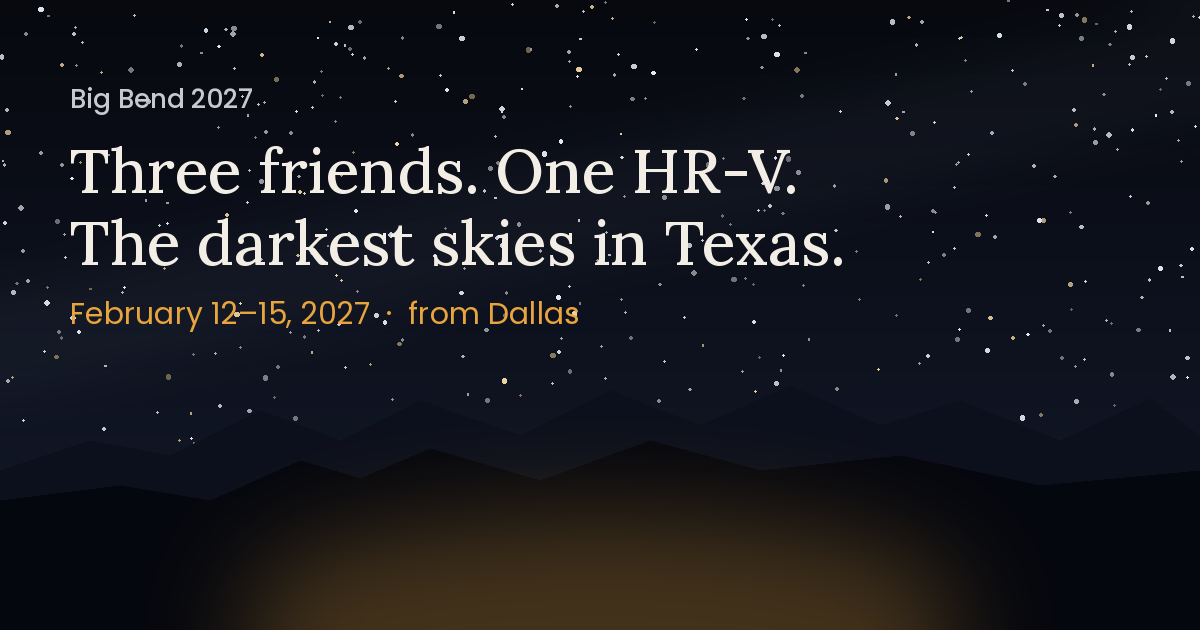
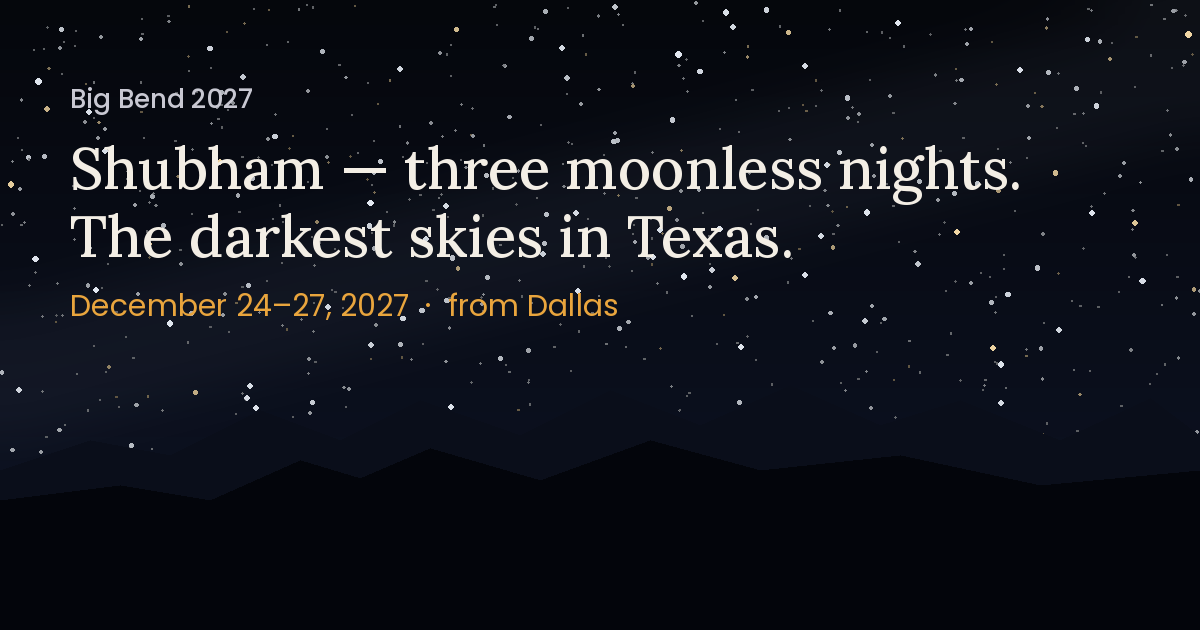
Personalize for Shubham / Khush; noindex; December preview images

diff --git a/index.html b/index.html
@@ -3,9 +3,10 @@
 <head>
 <meta charset="utf-8">
 <meta name="viewport" content="width=device-width, initial-scale=1, viewport-fit=cover">
-<title>Big Bend 2027 — J, three moonless nights</title>
+<title>Big Bend 2027 — Shubham, three moonless nights</title>
 <meta name="description" content="A four-day Big Bend camping and dark-sky road trip, December 24–27, 2027 — three moonless nights, one Honda HR-V from Dallas, and a budget that works from Arizona.">
 <meta name="color-scheme" content="dark">
+<meta name="robots" content="noindex, nofollow">
 <meta name="theme-color" content="#07090f">
 <meta property="og:type" content="website">
 <meta property="og:title" content="Big Bend 2027 — three friends, three moonless nights, the darkest skies in Texas">
@@ -73,7 +74,7 @@
   </div>
   <div class="wrap copy">
     <p class="kicker"><b>Big Bend National Park</b> Three friends, one HR-V, darkest skies in Texas</p>
-    <h1 id="h1">J, come stand under two thousand stars.</h1>
+    <h1 id="h1">Shubham, come stand under two thousand stars.</h1>
     <p class="date">December 24–27, 2027 — Christmas weekend, no moon</p>
     <p class="lede">Four days, three moonless nights, one Honda HR-V from Dallas. Everything shared is already covered. Your part pencils out to roughly $345–875 all-in at holiday fares, most likely around $550 — and it lands on the one week of the year nobody is hiring.</p>
     <div class="cta-row"><a class="cta" href="#budget">See what it actually costs</a><a class="cta ghost" href="#itinerary">Read the four days</a></div>
@@ -102,7 +103,7 @@
 <!-- 3. WHY THIS WEEKEND WINS -->
 <section id="why" aria-labelledby="h-why">
   <div class="wrap grid-2">
-    <div><h2 id="h-why" class="reveal">Why this weekend, specifically</h2><p class="lede">Two priorities, in order: the darkest sky, then a holiday Dallas and Edmonton actually share. Cost and the Arizona calendar were deliberately left out of the decision. The ranked reasons Dec 24–27 came out on top.</p></div>
+    <div><h2 id="h-why" class="reveal">Why this weekend, specifically</h2><p class="lede">Two priorities, in order: the darkest sky, then a holiday Dallas and Khush’s Edmonton calendar actually share. Cost and the Arizona calendar were deliberately left out of the decision. The ranked reasons Dec 24–27 came out on top.</p></div>
     <ol class="reasons">
       <li><span class="k">1</span><div><h3>A new moon on Dec 27</h3><p>The moon is a 10% waning crescent on Christmas Eve and effectively gone by the 26th, rising only in the last hour before dawn. Every evening is fully dark from about 7:20 pm to 6:15 am — eleven hours a night, thirty-three across the trip. No other candidate comes close except New Year’s 2028, which loses on holidays.</p></div></li>
       <li><span class="k">2</span><div><h3>Christmas on a Saturday</h3><p>Christmas Eve is a Dallas company holiday. Christmas Day falls on Saturday, so most employers on both sides of the border observe Monday Dec 27 — Alberta’s rules entitle you to a substitute day or pay, and U.S. companies commonly move the Saturday holiday too. That gives Dallas the Friday and, likely, the Monday.</p></div></li>
@@ -118,7 +119,7 @@
   <div class="wrap">
     <h2 id="h-rank" class="reveal">All ten weekends, ranked for the sky first</h2>
     <p class="lede">Tap any weekend for the sky, weather, holiday and moon details. Holiday scores count only dates shared by the Dallas company calendar and Alberta general holidays — the Arizona calendar isn’t a factor, by design. Ratings are planning judgments from historical data, not forecasts.</p>
-    <ol class="ledger"><li class="top"><details open><summary><span class="rank" aria-label="Rank 1">1</span><span><span class="dates">Dec 24–27, 2027</span><span class="tag">Christmas. Moonless nights, and the substitute Monday. Our pick.</span></span><svg class="chev" viewBox="0 0 24 24" fill="none" stroke="currentColor" stroke-width="2" aria-hidden="true"><path d="M6 9l6 6 6-6"/></svg></summary><div class="body"><p class="verdict-line">The darkest three nights of any candidate, with a shared holiday close behind.</p><div class="meters"><div class="meter" style="--w:100%"><span class="lab">Stargazing</span><span class="bar"><i></i></span><span class="val">5 of 5</span></div><div class="meter" style="--w:40%"><span class="lab">Aurora chance</span><span class="bar"><i></i></span><span class="val">2 of 5</span></div><div class="meter" style="--w:80%"><span class="lab">Camping weather</span><span class="bar"><i></i></span><span class="val">4 of 5</span></div><div class="meter" style="--w:80%"><span class="lab">Dallas–Edmonton holidays</span><span class="bar"><i></i></span><span class="val">4 of 5</span></div></div><p><b>Moon:</b> a waning crescent that shrinks from about 10% to 1% and doesn’t rise until 5–6 am — every evening is fully dark from 7:20 pm to 6:15 am, eleven hours a night. <b>Holidays:</b> Christmas Eve is a Dallas company holiday; Christmas falls on a Saturday, so Monday Dec 27 is the substitute day most employers observe on both sides of the border. <b>Vacation days:</b> Dallas 0–1 (the Monday if it isn’t substituted). For you: if you’re working by then, Dec 24 and Dec 27 are holidays at most U.S. employers — and the week between Christmas and New Year is the quietest hiring week of the year, so you miss nothing. <b>Weather:</b> low 60s by day, upper 30s at the Basin at night, dry.</p></div></details></li><li><details><summary><span class="rank" aria-label="Rank 2">2</span><span><span class="dates">Dec 31, 2027 – Jan 3, 2028</span><span class="tag">New Year’s. Nearly as dark; the holidays don’t line up.</span></span><svg class="chev" viewBox="0 0 24 24" fill="none" stroke="currentColor" stroke-width="2" aria-hidden="true"><path d="M6 9l6 6 6-6"/></svg></summary><div class="body"><p class="verdict-line">A young crescent that sets by 9–11 pm, then black sky — but Dallas has the Friday off and Edmonton the Monday, so each of us burns a day.</p><div class="meters"><div class="meter" style="--w:100%"><span class="lab">Stargazing</span><span class="bar"><i></i></span><span class="val">5 of 5</span></div><div class="meter" style="--w:40%"><span class="lab">Aurora chance</span><span class="bar"><i></i></span><span class="val">2 of 5</span></div><div class="meter" style="--w:80%"><span class="lab">Camping weather</span><span class="bar"><i></i></span><span class="val">4 of 5</span></div><div class="meter" style="--w:60%"><span class="lab">Dallas–Edmonton holidays</span><span class="bar"><i></i></span><span class="val">3 of 5</span></div></div><p>New Year’s Eve is a Dallas company holiday and a workday in Alberta; Jan 1 is a Saturday, so Alberta’s substitute is usually the Monday, which Dallas doesn’t get. Same sky quality as Christmas, worse alignment, and holiday fares.</p></div></details></li><li><details><summary><span class="rank" aria-label="Rank 3">3</span><span><span class="dates">Dec 31, 2026 – Jan 3, 2027</span><span class="tag">This New Year’s. Best holidays; a half moon; four months away.</span></span><svg class="chev" viewBox="0 0 24 24" fill="none" stroke="currentColor" stroke-width="2" aria-hidden="true"><path d="M6 9l6 6 6-6"/></svg></summary><div class="body"><p class="verdict-line">Jan 1 is a paid Friday for both Dallas and Edmonton — the cleanest overlap on the list — with a last-quarter moon that rises around midnight, so evenings are dark.</p><div class="meters"><div class="meter" style="--w:80%"><span class="lab">Stargazing</span><span class="bar"><i></i></span><span class="val">4 of 5</span></div><div class="meter" style="--w:40%"><span class="lab">Aurora chance</span><span class="bar"><i></i></span><span class="val">2 of 5</span></div><div class="meter" style="--w:80%"><span class="lab">Camping weather</span><span class="bar"><i></i></span><span class="val">4 of 5</span></div><div class="meter" style="--w:100%"><span class="lab">Dallas–Edmonton holidays</span><span class="bar"><i></i></span><span class="val">5 of 5</span></div></div><p>Loses on the sky (the moon is up from midnight to dawn at roughly 50%) and on logistics: campsites for this window opened in July, so the Basin is very likely gone. Rio Grande Village or a Terlingua campground would be the fallback.</p></div></details></li><li><details><summary><span class="rank" aria-label="Rank 4">4</span><span><span class="dates">Nov 25–28, 2027</span><span class="tag">Thanksgiving. New moon, best weather — U.S.-only holiday.</span></span><svg class="chev" viewBox="0 0 24 24" fill="none" stroke="currentColor" stroke-width="2" aria-hidden="true"><path d="M6 9l6 6 6-6"/></svg></summary><div class="body"><p class="verdict-line">New moon on Nov 27 and 69°F days: the best conditions in the park all year.</p><div class="meters"><div class="meter" style="--w:100%"><span class="lab">Stargazing</span><span class="bar"><i></i></span><span class="val">5 of 5</span></div><div class="meter" style="--w:40%"><span class="lab">Aurora chance</span><span class="bar"><i></i></span><span class="val">2 of 5</span></div><div class="meter" style="--w:100%"><span class="lab">Camping weather</span><span class="bar"><i></i></span><span class="val">5 of 5</span></div><div class="meter" style="--w:20%"><span class="lab">Dallas–Edmonton holidays</span><span class="bar"><i></i></span><span class="val">1 of 5</span></div></div><p>Canada’s Thanksgiving is in October, so Edmonton has no holiday here at all. Ranked fourth purely because the second priority is a shared Dallas–Edmonton holiday.</p></div></details></li><li><details><summary><span class="rank" aria-label="Rank 5">5</span><span><span class="dates">Feb 12–15, 2027</span><span class="tag">Presidents’ Day + Family Day. The practical pick, if the sky came second.</span></span><svg class="chev" viewBox="0 0 24 24" fill="none" stroke="currentColor" stroke-width="2" aria-hidden="true"><path d="M6 9l6 6 6-6"/></svg></summary><div class="body"><p class="verdict-line">The only Monday in 2027 that is a paid holiday in both Dallas and Alberta, in the best camping month.</p><div class="meters"><div class="meter" style="--w:60%"><span class="lab">Stargazing</span><span class="bar"><i></i></span><span class="val">3 of 5</span></div><div class="meter" style="--w:40%"><span class="lab">Aurora chance</span><span class="bar"><i></i></span><span class="val">2 of 5</span></div><div class="meter" style="--w:100%"><span class="lab">Camping weather</span><span class="bar"><i></i></span><span class="val">5 of 5</span></div><div class="meter" style="--w:100%"><span class="lab">Dallas–Edmonton holidays</span><span class="bar"><i></i></span><span class="val">5 of 5</span></div></div><p>Lost the top spot because a 36–58% first-quarter moon hangs in the sky until 11:30 pm–1:30 am each night. If the group ever flips to “cheapest, easiest, warmest,” this is the weekend.</p></div></details></li><li><details><summary><span class="rank" aria-label="Rank 6">6</span><span><span class="dates">Jan 15–18, 2027</span><span class="tag">MLK Day. Bright moon, U.S.-only holiday.</span></span><svg class="chev" viewBox="0 0 24 24" fill="none" stroke="currentColor" stroke-width="2" aria-hidden="true"><path d="M6 9l6 6 6-6"/></svg></summary><div class="body"><p class="verdict-line">A 60–75% moon up until 1–2 am; no Alberta holiday.</p><div class="meters"><div class="meter" style="--w:60%"><span class="lab">Stargazing</span><span class="bar"><i></i></span><span class="val">3 of 5</span></div><div class="meter" style="--w:40%"><span class="lab">Aurora chance</span><span class="bar"><i></i></span><span class="val">2 of 5</span></div><div class="meter" style="--w:80%"><span class="lab">Camping weather</span><span class="bar"><i></i></span><span class="val">4 of 5</span></div><div class="meter" style="--w:20%"><span class="lab">Dallas–Edmonton holidays</span><span class="bar"><i></i></span><span class="val">1 of 5</span></div></div></div></details></li><li><details><summary><span class="rank" aria-label="Rank 7">7</span><span><span class="dates">Sep 3–6, 2027</span><span class="tag">Labor Day / Labour Day. Perfect holidays, brutal heat.</span></span><svg class="chev" viewBox="0 0 24 24" fill="none" stroke="currentColor" stroke-width="2" aria-hidden="true"><path d="M6 9l6 6 6-6"/></svg></summary><div class="body"><p class="verdict-line">A shared Monday and the summer Milky Way core overhead at dusk — but 88–99°F afternoons and the tail of flash-flood season.</p><div class="meters"><div class="meter" style="--w:60%"><span class="lab">Stargazing</span><span class="bar"><i></i></span><span class="val">3 of 5</span></div><div class="meter" style="--w:40%"><span class="lab">Aurora chance</span><span class="bar"><i></i></span><span class="val">2 of 5</span></div><div class="meter" style="--w:40%"><span class="lab">Camping weather</span><span class="bar"><i></i></span><span class="val">2 of 5</span></div><div class="meter" style="--w:100%"><span class="lab">Dallas–Edmonton holidays</span><span class="bar"><i></i></span><span class="val">5 of 5</span></div></div></div></details></li><li><details><summary><span class="rank" aria-label="Rank 8">8</span><span><span class="dates">May 28–31, 2027</span><span class="tag">Memorial Day. Hot; Alberta’s long weekend was the week before.</span></span><svg class="chev" viewBox="0 0 24 24" fill="none" stroke="currentColor" stroke-width="2" aria-hidden="true"><path d="M6 9l6 6 6-6"/></svg></summary><div class="body"><p class="verdict-line">Waning crescent keeps evenings dark; 90–102°F.</p><div class="meters"><div class="meter" style="--w:80%"><span class="lab">Stargazing</span><span class="bar"><i></i></span><span class="val">4 of 5</span></div><div class="meter" style="--w:40%"><span class="lab">Aurora chance</span><span class="bar"><i></i></span><span class="val">2 of 5</span></div><div class="meter" style="--w:40%"><span class="lab">Camping weather</span><span class="bar"><i></i></span><span class="val">2 of 5</span></div><div class="meter" style="--w:20%"><span class="lab">Dallas–Edmonton holidays</span><span class="bar"><i></i></span><span class="val">1 of 5</span></div></div></div></details></li><li><details><summary><span class="rank" aria-label="Rank 9">9</span><span><span class="dates">Jul 3–5, 2027</span><span class="tag">Independence Day observed. New moon, monsoon storms, 95–106°F.</span></span><svg class="chev" viewBox="0 0 24 24" fill="none" stroke="currentColor" stroke-width="2" aria-hidden="true"><path d="M6 9l6 6 6-6"/></svg></summary><div class="body"><p class="verdict-line">Perfect moon, everything else wrong.</p><div class="meters"><div class="meter" style="--w:40%"><span class="lab">Stargazing</span><span class="bar"><i></i></span><span class="val">2 of 5</span></div><div class="meter" style="--w:40%"><span class="lab">Aurora chance</span><span class="bar"><i></i></span><span class="val">2 of 5</span></div><div class="meter" style="--w:20%"><span class="lab">Camping weather</span><span class="bar"><i></i></span><span class="val">1 of 5</span></div><div class="meter" style="--w:40%"><span class="lab">Dallas–Edmonton holidays</span><span class="bar"><i></i></span><span class="val">2 of 5</span></div></div></div></details></li><li><details><summary><span class="rank" aria-label="Rank 10">10</span><span><span class="dates">Jun 18–20, 2027</span><span class="tag">Juneteenth observed. Full moon and 95°F.</span></span><svg class="chev" viewBox="0 0 24 24" fill="none" stroke="currentColor" stroke-width="2" aria-hidden="true"><path d="M6 9l6 6 6-6"/></svg></summary><div class="body"><p class="verdict-line">Full moon on June 18/19 washes out the sky.</p><div class="meters"><div class="meter" style="--w:20%"><span class="lab">Stargazing</span><span class="bar"><i></i></span><span class="val">1 of 5</span></div><div class="meter" style="--w:40%"><span class="lab">Aurora chance</span><span class="bar"><i></i></span><span class="val">2 of 5</span></div><div class="meter" style="--w:20%"><span class="lab">Camping weather</span><span class="bar"><i></i></span><span class="val">1 of 5</span></div><div class="meter" style="--w:20%"><span class="lab">Dallas–Edmonton holidays</span><span class="bar"><i></i></span><span class="val">1 of 5</span></div></div></div></details></li></ol>
+    <ol class="ledger"><li class="top"><details open><summary><span class="rank" aria-label="Rank 1">1</span><span><span class="dates">Dec 24–27, 2027</span><span class="tag">Christmas. Moonless nights, and the substitute Monday. Our pick.</span></span><svg class="chev" viewBox="0 0 24 24" fill="none" stroke="currentColor" stroke-width="2" aria-hidden="true"><path d="M6 9l6 6 6-6"/></svg></summary><div class="body"><p class="verdict-line">The darkest three nights of any candidate, with a shared holiday close behind.</p><div class="meters"><div class="meter" style="--w:100%"><span class="lab">Stargazing</span><span class="bar"><i></i></span><span class="val">5 of 5</span></div><div class="meter" style="--w:40%"><span class="lab">Aurora chance</span><span class="bar"><i></i></span><span class="val">2 of 5</span></div><div class="meter" style="--w:80%"><span class="lab">Camping weather</span><span class="bar"><i></i></span><span class="val">4 of 5</span></div><div class="meter" style="--w:80%"><span class="lab">Dallas–Edmonton holidays</span><span class="bar"><i></i></span><span class="val">4 of 5</span></div></div><p><b>Moon:</b> a waning crescent that shrinks from about 10% to 1% and doesn’t rise until 5–6 am — every evening is fully dark from 7:20 pm to 6:15 am, eleven hours a night. <b>Holidays:</b> Christmas Eve is a Dallas company holiday; Christmas falls on a Saturday, so Monday Dec 27 is the substitute day most employers observe on both sides of the border. <b>Vacation days:</b> Dallas 0–1 (the Monday if it isn’t substituted). For you: if you’re working by then, Dec 24 and Dec 27 are holidays at most U.S. employers — and the week between Christmas and New Year is the quietest hiring week of the year, so you miss nothing. <b>Weather:</b> low 60s by day, upper 30s at the Basin at night, dry.</p></div></details></li><li><details><summary><span class="rank" aria-label="Rank 2">2</span><span><span class="dates">Dec 31, 2027 – Jan 3, 2028</span><span class="tag">New Year’s. Nearly as dark; the holidays don’t line up.</span></span><svg class="chev" viewBox="0 0 24 24" fill="none" stroke="currentColor" stroke-width="2" aria-hidden="true"><path d="M6 9l6 6 6-6"/></svg></summary><div class="body"><p class="verdict-line">A young crescent that sets by 9–11 pm, then black sky — but Dallas has the Friday off and Edmonton the Monday, so each of us burns a day.</p><div class="meters"><div class="meter" style="--w:100%"><span class="lab">Stargazing</span><span class="bar"><i></i></span><span class="val">5 of 5</span></div><div class="meter" style="--w:40%"><span class="lab">Aurora chance</span><span class="bar"><i></i></span><span class="val">2 of 5</span></div><div class="meter" style="--w:80%"><span class="lab">Camping weather</span><span class="bar"><i></i></span><span class="val">4 of 5</span></div><div class="meter" style="--w:60%"><span class="lab">Dallas–Edmonton holidays</span><span class="bar"><i></i></span><span class="val">3 of 5</span></div></div><p>New Year’s Eve is a Dallas company holiday and a workday in Alberta; Jan 1 is a Saturday, so Alberta’s substitute is usually the Monday, which Dallas doesn’t get. Same sky quality as Christmas, worse alignment, and holiday fares.</p></div></details></li><li><details><summary><span class="rank" aria-label="Rank 3">3</span><span><span class="dates">Dec 31, 2026 – Jan 3, 2027</span><span class="tag">This New Year’s. Best holidays; a half moon; four months away.</span></span><svg class="chev" viewBox="0 0 24 24" fill="none" stroke="currentColor" stroke-width="2" aria-hidden="true"><path d="M6 9l6 6 6-6"/></svg></summary><div class="body"><p class="verdict-line">Jan 1 is a paid Friday for both Dallas and Edmonton — the cleanest overlap on the list — with a last-quarter moon that rises around midnight, so evenings are dark.</p><div class="meters"><div class="meter" style="--w:80%"><span class="lab">Stargazing</span><span class="bar"><i></i></span><span class="val">4 of 5</span></div><div class="meter" style="--w:40%"><span class="lab">Aurora chance</span><span class="bar"><i></i></span><span class="val">2 of 5</span></div><div class="meter" style="--w:80%"><span class="lab">Camping weather</span><span class="bar"><i></i></span><span class="val">4 of 5</span></div><div class="meter" style="--w:100%"><span class="lab">Dallas–Edmonton holidays</span><span class="bar"><i></i></span><span class="val">5 of 5</span></div></div><p>Loses on the sky (the moon is up from midnight to dawn at roughly 50%) and on logistics: campsites for this window opened in July, so the Basin is very likely gone. Rio Grande Village or a Terlingua campground would be the fallback.</p></div></details></li><li><details><summary><span class="rank" aria-label="Rank 4">4</span><span><span class="dates">Nov 25–28, 2027</span><span class="tag">Thanksgiving. New moon, best weather — U.S.-only holiday.</span></span><svg class="chev" viewBox="0 0 24 24" fill="none" stroke="currentColor" stroke-width="2" aria-hidden="true"><path d="M6 9l6 6 6-6"/></svg></summary><div class="body"><p class="verdict-line">New moon on Nov 27 and 69°F days: the best conditions in the park all year.</p><div class="meters"><div class="meter" style="--w:100%"><span class="lab">Stargazing</span><span class="bar"><i></i></span><span class="val">5 of 5</span></div><div class="meter" style="--w:40%"><span class="lab">Aurora chance</span><span class="bar"><i></i></span><span class="val">2 of 5</span></div><div class="meter" style="--w:100%"><span class="lab">Camping weather</span><span class="bar"><i></i></span><span class="val">5 of 5</span></div><div class="meter" style="--w:20%"><span class="lab">Dallas–Edmonton holidays</span><span class="bar"><i></i></span><span class="val">1 of 5</span></div></div><p>Canada’s Thanksgiving is in October, so Khush has no holiday here at all. Ranked fourth purely because the second priority is a shared Dallas–Edmonton holiday.</p></div></details></li><li><details><summary><span class="rank" aria-label="Rank 5">5</span><span><span class="dates">Feb 12–15, 2027</span><span class="tag">Presidents’ Day + Family Day. The practical pick, if the sky came second.</span></span><svg class="chev" viewBox="0 0 24 24" fill="none" stroke="currentColor" stroke-width="2" aria-hidden="true"><path d="M6 9l6 6 6-6"/></svg></summary><div class="body"><p class="verdict-line">The only Monday in 2027 that is a paid holiday in both Dallas and Alberta, in the best camping month.</p><div class="meters"><div class="meter" style="--w:60%"><span class="lab">Stargazing</span><span class="bar"><i></i></span><span class="val">3 of 5</span></div><div class="meter" style="--w:40%"><span class="lab">Aurora chance</span><span class="bar"><i></i></span><span class="val">2 of 5</span></div><div class="meter" style="--w:100%"><span class="lab">Camping weather</span><span class="bar"><i></i></span><span class="val">5 of 5</span></div><div class="meter" style="--w:100%"><span class="lab">Dallas–Edmonton holidays</span><span class="bar"><i></i></span><span class="val">5 of 5</span></div></div><p>Lost the top spot because a 36–58% first-quarter moon hangs in the sky until 11:30 pm–1:30 am each night. If the group ever flips to “cheapest, easiest, warmest,” this is the weekend.</p></div></details></li><li><details><summary><span class="rank" aria-label="Rank 6">6</span><span><span class="dates">Jan 15–18, 2027</span><span class="tag">MLK Day. Bright moon, U.S.-only holiday.</span></span><svg class="chev" viewBox="0 0 24 24" fill="none" stroke="currentColor" stroke-width="2" aria-hidden="true"><path d="M6 9l6 6 6-6"/></svg></summary><div class="body"><p class="verdict-line">A 60–75% moon up until 1–2 am; no Alberta holiday.</p><div class="meters"><div class="meter" style="--w:60%"><span class="lab">Stargazing</span><span class="bar"><i></i></span><span class="val">3 of 5</span></div><div class="meter" style="--w:40%"><span class="lab">Aurora chance</span><span class="bar"><i></i></span><span class="val">2 of 5</span></div><div class="meter" style="--w:80%"><span class="lab">Camping weather</span><span class="bar"><i></i></span><span class="val">4 of 5</span></div><div class="meter" style="--w:20%"><span class="lab">Dallas–Edmonton holidays</span><span class="bar"><i></i></span><span class="val">1 of 5</span></div></div></div></details></li><li><details><summary><span class="rank" aria-label="Rank 7">7</span><span><span class="dates">Sep 3–6, 2027</span><span class="tag">Labor Day / Labour Day. Perfect holidays, brutal heat.</span></span><svg class="chev" viewBox="0 0 24 24" fill="none" stroke="currentColor" stroke-width="2" aria-hidden="true"><path d="M6 9l6 6 6-6"/></svg></summary><div class="body"><p class="verdict-line">A shared Monday and the summer Milky Way core overhead at dusk — but 88–99°F afternoons and the tail of flash-flood season.</p><div class="meters"><div class="meter" style="--w:60%"><span class="lab">Stargazing</span><span class="bar"><i></i></span><span class="val">3 of 5</span></div><div class="meter" style="--w:40%"><span class="lab">Aurora chance</span><span class="bar"><i></i></span><span class="val">2 of 5</span></div><div class="meter" style="--w:40%"><span class="lab">Camping weather</span><span class="bar"><i></i></span><span class="val">2 of 5</span></div><div class="meter" style="--w:100%"><span class="lab">Dallas–Edmonton holidays</span><span class="bar"><i></i></span><span class="val">5 of 5</span></div></div></div></details></li><li><details><summary><span class="rank" aria-label="Rank 8">8</span><span><span class="dates">May 28–31, 2027</span><span class="tag">Memorial Day. Hot; Alberta’s long weekend was the week before.</span></span><svg class="chev" viewBox="0 0 24 24" fill="none" stroke="currentColor" stroke-width="2" aria-hidden="true"><path d="M6 9l6 6 6-6"/></svg></summary><div class="body"><p class="verdict-line">Waning crescent keeps evenings dark; 90–102°F.</p><div class="meters"><div class="meter" style="--w:80%"><span class="lab">Stargazing</span><span class="bar"><i></i></span><span class="val">4 of 5</span></div><div class="meter" style="--w:40%"><span class="lab">Aurora chance</span><span class="bar"><i></i></span><span class="val">2 of 5</span></div><div class="meter" style="--w:40%"><span class="lab">Camping weather</span><span class="bar"><i></i></span><span class="val">2 of 5</span></div><div class="meter" style="--w:20%"><span class="lab">Dallas–Edmonton holidays</span><span class="bar"><i></i></span><span class="val">1 of 5</span></div></div></div></details></li><li><details><summary><span class="rank" aria-label="Rank 9">9</span><span><span class="dates">Jul 3–5, 2027</span><span class="tag">Independence Day observed. New moon, monsoon storms, 95–106°F.</span></span><svg class="chev" viewBox="0 0 24 24" fill="none" stroke="currentColor" stroke-width="2" aria-hidden="true"><path d="M6 9l6 6 6-6"/></svg></summary><div class="body"><p class="verdict-line">Perfect moon, everything else wrong.</p><div class="meters"><div class="meter" style="--w:40%"><span class="lab">Stargazing</span><span class="bar"><i></i></span><span class="val">2 of 5</span></div><div class="meter" style="--w:40%"><span class="lab">Aurora chance</span><span class="bar"><i></i></span><span class="val">2 of 5</span></div><div class="meter" style="--w:20%"><span class="lab">Camping weather</span><span class="bar"><i></i></span><span class="val">1 of 5</span></div><div class="meter" style="--w:40%"><span class="lab">Dallas–Edmonton holidays</span><span class="bar"><i></i></span><span class="val">2 of 5</span></div></div></div></details></li><li><details><summary><span class="rank" aria-label="Rank 10">10</span><span><span class="dates">Jun 18–20, 2027</span><span class="tag">Juneteenth observed. Full moon and 95°F.</span></span><svg class="chev" viewBox="0 0 24 24" fill="none" stroke="currentColor" stroke-width="2" aria-hidden="true"><path d="M6 9l6 6 6-6"/></svg></summary><div class="body"><p class="verdict-line">Full moon on June 18/19 washes out the sky.</p><div class="meters"><div class="meter" style="--w:20%"><span class="lab">Stargazing</span><span class="bar"><i></i></span><span class="val">1 of 5</span></div><div class="meter" style="--w:40%"><span class="lab">Aurora chance</span><span class="bar"><i></i></span><span class="val">2 of 5</span></div><div class="meter" style="--w:20%"><span class="lab">Camping weather</span><span class="bar"><i></i></span><span class="val">1 of 5</span></div><div class="meter" style="--w:20%"><span class="lab">Dallas–Edmonton holidays</span><span class="bar"><i></i></span><span class="val">1 of 5</span></div></div></div></details></li></ol>
     <div class="change-note"><p><b>What changed, and why.</b> The earlier plan chose Feb 12–15 by weighting cost, camping comfort and all three calendars equally. The brief is now explicit: darkest sky first, a shared Dallas–Edmonton holiday second, cost and the Arizona calendar not deciding factors. Re-scored that way, Christmas 2027 wins on the sky outright and keeps a plausible shared Monday; Feb drops to fifth. Thanksgiving and both New Year’s weekends moved up on sky quality. Aurora scores are identical everywhere on purpose — nobody can rank a weekend for aurora months out.</p></div>
   </div>
 </section>
@@ -193,7 +194,7 @@
       <div class="line" aria-hidden="true"><svg preserveAspectRatio="none"><path d="M1 0 V 2000"/><path class="prog" d="M1 0 V 2000"/></svg></div>
       <article class="day"><h3>Day 0 · Thursday, Dec 23</h3><p class="when">You land in Dallas</p><ul>
         <li><span>evening</span><span>Fly PHX → DFW (2½ hours). I pick you up at the curb — no rideshare, no rental.</span></li>
-        <li><span>night</span><span>Crash at my place in Addison. Groceries and gear are packed; we top off the SOLIX overnight. Our Edmonton friend landed this afternoon.</span></li></ul></article>
+        <li><span>night</span><span>Crash at my place in Addison. Groceries and gear are packed; we top off the SOLIX overnight. Khush landed from Edmonton this afternoon.</span></li></ul></article>
       <article class="day"><h3>Day 1 · Friday, Dec 24</h3><p class="when">Christmas Eve, Dallas to the Chisos Basin</p><ul>
         <li><span>5:30 am</span><span>Roll out of Addison in the dark. I-20 west through Abilene and Midland; sunrise somewhere past Weatherford.</span></li>
         <li><span>11:00 am</span><span>Fuel and lunch in Midland/Odessa — last big-city prices, and the last big grocery run.</span></li>
@@ -405,7 +406,7 @@
       <details><summary>What if I land a job before then and can’t get Monday off?</summary><p>Then you fly home Sunday evening from Midland — it’s on our route — or we drive back Sunday and you catch a Monday 6 am flight from DFW. Not ideal, still three nights of sky. And congratulations, in that case.</p></details>
       <details><summary>How much cash do I actually need?</summary><p>Almost none. I’ll cover shared costs on my card and we settle up after with a simple three-way split — expect $175–235 for your share depending on gas prices and how well we eat.</p></details>
       <details><summary>Can I bring a real camera setup?</summary><p>Yes, and this is the weekend for it: moonless, eleven hours of dark, Orion overhead. Tripod, wide fast lens, spare batteries — cold drains them. We have power at camp.</p></details>
-      <details><summary>What about the Edmonton flight timing?</summary><p>Our third has a longer trip — one connection, about seven hours — so he lands Thursday too and flies home Tuesday morning. Same weekend, same car, same campsite.</p></details>
+      <details><summary>What about Khush?</summary><p>Khush has the longer trip — one connection, about seven hours — so he lands Thursday too and flies home Tuesday morning. Same weekend, same car, same campsite.</p></details>
     </div>
   </div>
 </section>
@@ -428,7 +429,7 @@
       <li>Airfare baselines from Google Flights, Frontier, Southwest and American, checked September 2026: <a href="https://www.google.com/travel/flights" rel="noopener">google.com/travel/flights</a>.</li>
     </ol>
     <div class="notes">
-      <p><b>Assumptions, stated plainly.</b> Fuel is priced at $3.00–3.50 per gallon for planning; 1,240 total miles at 27 mpg. Airfare ranges are September 2026 observations of Christmas-week pricing, not 2027 quotes. Historical temperatures are five-year averages, not a forecast. Holiday assumptions apply to standard Monday–Friday schedules; the Monday Dec 27 substitute for a Saturday Christmas is common but employer-dependent on both sides of the border. J’s employer holidays are unknown, so the plan is built to work with zero or one day off. Aurora is treated as a bonus that cannot be scheduled.</p>
+      <p><b>Assumptions, stated plainly.</b> Fuel is priced at $3.00–3.50 per gallon for planning; 1,240 total miles at 27 mpg. Airfare ranges are September 2026 observations of Christmas-week pricing, not 2027 quotes. Historical temperatures are five-year averages, not a forecast. Holiday assumptions apply to standard Monday–Friday schedules; the Monday Dec 27 substitute for a Saturday Christmas is common but employer-dependent on both sides of the border. Shubham’s employer holidays are unknown, so the plan is built to work with zero or one day off. Aurora is treated as a bonus that cannot be scheduled.</p>
     </div>
   </div>
 </section>
@@ -444,7 +445,7 @@
 
 </main>
 
-<footer><div class="wrap"><p>Made for J, from Dallas. Estimates are estimates; the sky is the sky. Park data from the National Park Service; astronomy from the U.S. Naval Observatory; space weather from NOAA.</p></div></footer>
+<footer><div class="wrap"><p>Made for Shubham, from Dallas. Estimates are estimates; the sky is the sky. Park data from the National Park Service; astronomy from the U.S. Naval Observatory; space weather from NOAA.</p></div></footer>
 
 <div class="stick" role="complementary" aria-label="Trip summary"><div class="txt"><b>Dec 24–27, 2027 · about $550 all-in</b><span>Three moonless nights, Chisos Basin, one flight to Dallas</span></div><a class="cta" href="#join">I’m in</a></div>
 

diff --git a/README.md b/README.md
@@ -1,8 +1,8 @@
 # Big Bend 2027 — Arizona edition
 
-A single-page trip site for J: a four-day, three-night Big Bend National Park camping and dark-sky road trip from Dallas on December 24–27, 2027 (Christmas weekend — a new moon, the darkest three nights of the year). Costs in USD, with the lowest-cost way to join from Phoenix.
+A single-page trip site for Shubham: a four-day, three-night Big Bend National Park camping and dark-sky road trip from Dallas on December 24–27, 2027 (Christmas weekend — a new moon, the darkest three nights of the year). Costs in USD, with the lowest-cost way to join from Phoenix.
 
-Companion site for the same trip, for our friend in Edmonton: `big-bend-2027-edmonton`.
+Companion site for the same trip, for Khush in Edmonton: `big-bend-2027-edmonton`.
 
 ## Stack
 
